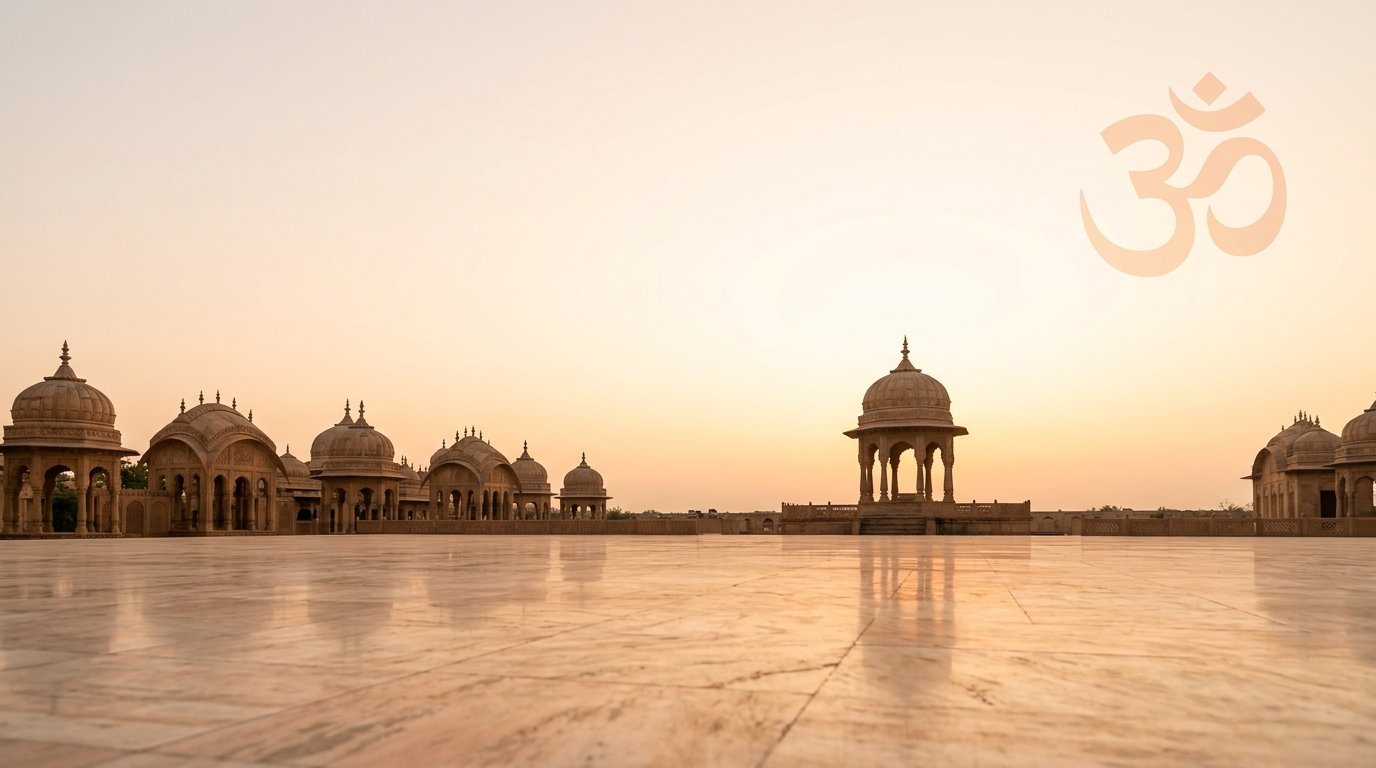
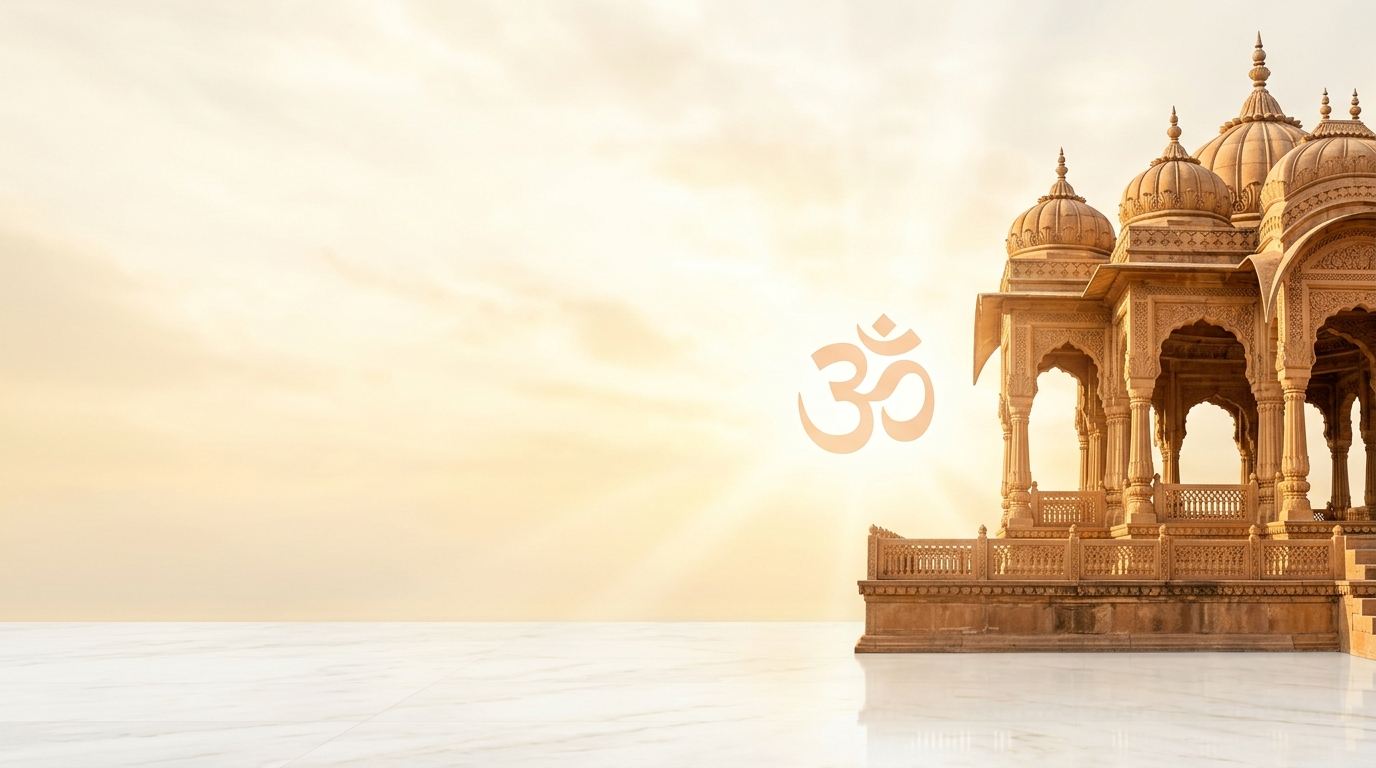
Enhance text contrast and adjust heritage backdrop to guarantee clear readability

diff --git a/src/components/about/AboutSchool.tsx b/src/components/about/AboutSchool.tsx
@@ -91,16 +91,17 @@ export const AboutSchool: React.FC<AboutSchoolProps> = ({ about }) => {
           </h2>
         </motion.div>
 
-        {/* Paragraphs (Left-aligned clean typography) */}
-        <div className="max-w-[700px] space-y-3.5 sm:space-y-4 text-[#332A26] text-xs sm:text-sm md:text-[14.5px] leading-[1.65] font-normal font-sans">
+        {/* Paragraphs (Left-aligned clean typography with high contrast visibility) */}
+        <div className="max-w-[720px] space-y-4 sm:space-y-4.5 text-[#2C211B] text-sm sm:text-[15px] md:text-[16px] leading-[1.72] font-normal font-sans">
           
           <motion.p
             initial={{ opacity: 0, y: 12 }}
             whileInView={{ opacity: 1, y: 0 }}
             viewport={{ once: true }}
             transition={{ duration: 0.5, delay: 0.2 }}
+            className="text-[#1A1310] font-medium"
           >
-            <strong className="text-[#1F1916] font-bold">Sanātana</strong> is a school for learning aimed at delivering education in its truest sense blending the great yesterday's techniques of our vedic culture and today's methodologies of modern education to prepare students for tomorrow.
+            <strong className="text-[#D94F16] font-bold">Sanātana</strong> is a school for learning aimed at delivering education in its truest sense blending the great yesterday's techniques of our vedic culture and today's methodologies of modern education to prepare students for tomorrow.
           </motion.p>
 
           <motion.p
@@ -108,7 +109,7 @@ export const AboutSchool: React.FC<AboutSchoolProps> = ({ about }) => {
             whileInView={{ opacity: 1, y: 0 }}
             viewport={{ once: true }}
             transition={{ duration: 0.5, delay: 0.3 }}
-            className="text-[#4A3D36]"
+            className="text-[#2C211B]"
           >
             We stand out by following a teaching philosophy still uncommon in the world – we put the child and her/his well-being in the centre.
           </motion.p>
@@ -118,7 +119,7 @@ export const AboutSchool: React.FC<AboutSchoolProps> = ({ about }) => {
             whileInView={{ opacity: 1, y: 0 }}
             viewport={{ once: true }}
             transition={{ duration: 0.5, delay: 0.4 }}
-            className="text-[#4A3D36]"
+            className="text-[#2C211B]"
           >
             We are not just a pre-school but a place where children are nurtured to be life-long learners and responsible citizens.
           </motion.p>
@@ -128,7 +129,7 @@ export const AboutSchool: React.FC<AboutSchoolProps> = ({ about }) => {
             whileInView={{ opacity: 1, y: 0 }}
             viewport={{ once: true }}
             transition={{ duration: 0.5, delay: 0.5 }}
-            className="text-[#4A3D36] leading-relaxed"
+            className="text-[#3A2D26] leading-relaxed"
           >
             At Sanātana, we respect each child as a unique individual, bubbling with limitless potential, curious and interested in their world around them. We acknowledge children as sophisticated thinkers and communicators, adopting numerous ways to share their thoughts and feelings. We embrace our role in providing a stress-free, secure and playful environment where learning is celebrated, curiosity enhanced and conversations with trained facilitators encouraged.
           </motion.p>
